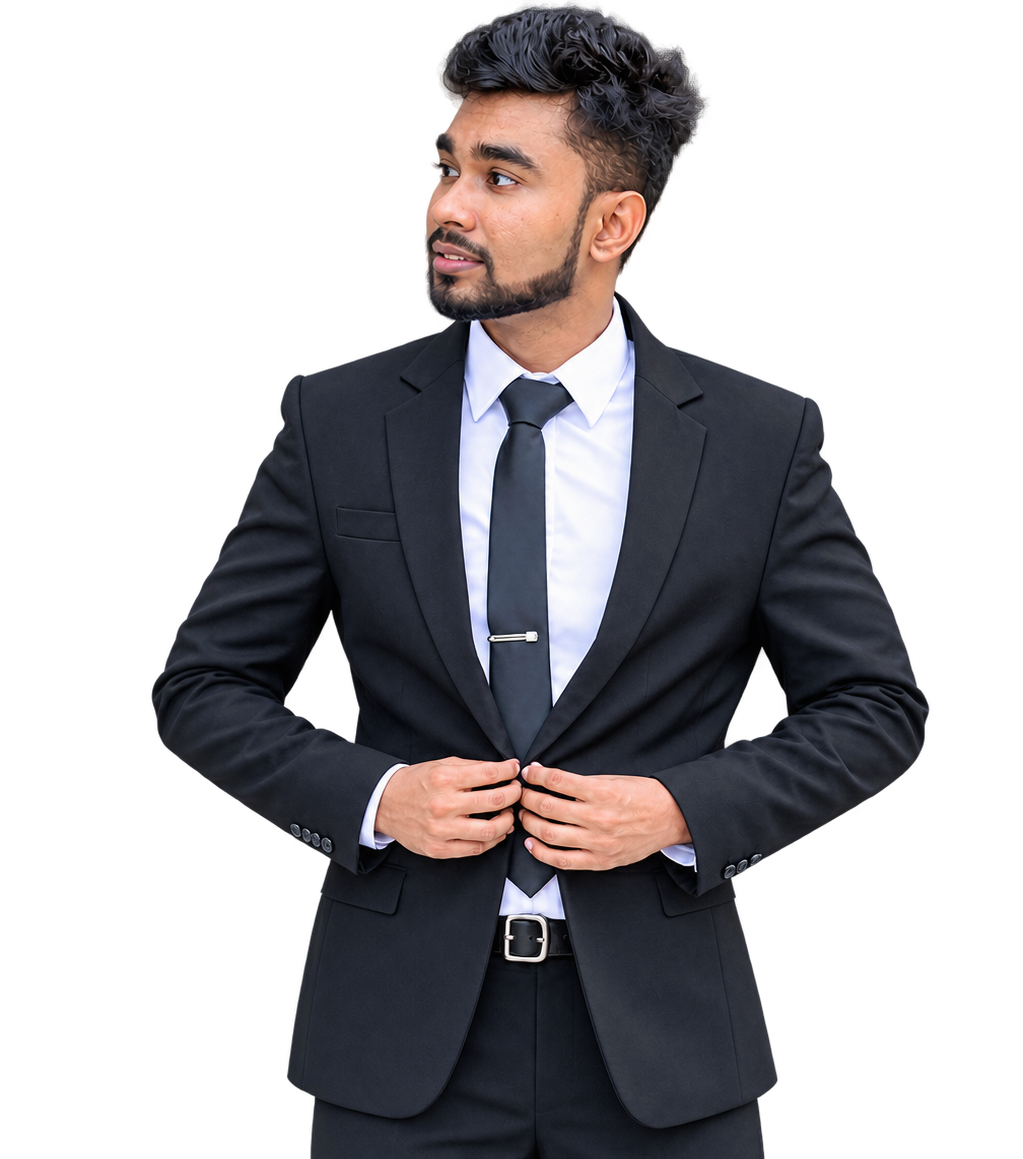
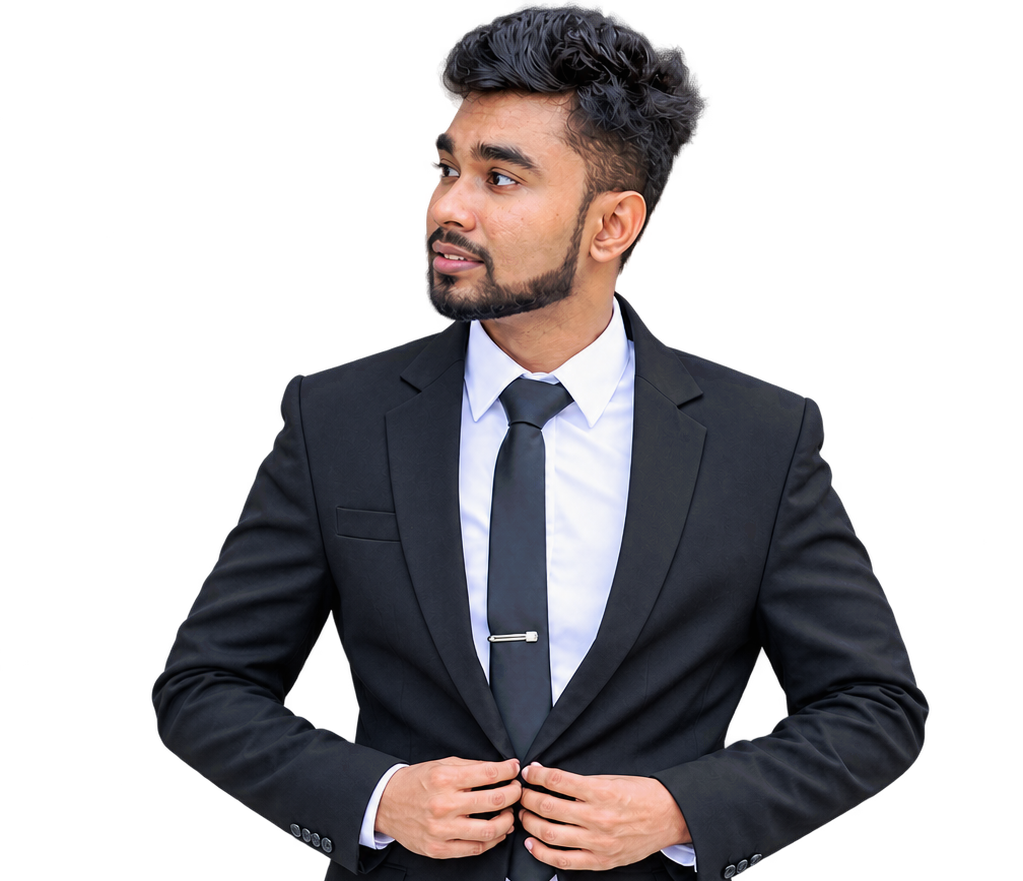
update hero section

diff --git a/client/src/index.css b/client/src/index.css
@@ -22,34 +22,31 @@ nav .wrap{display:flex;align-items:center;justify-content:space-between;height:6
 @media(max-width:700px){.links{display:none}}
 .tog{width:44px;height:44px;border-radius:50%;border:1px solid var(--line);background:var(--card);color:var(--fg);cursor:pointer;font-size:18px;transition:transform .5s}
 .tog:hover{transform:rotate(180deg);border-color:var(--brand)}
-/* hero */
-.hero{min-height:88vh;display:grid;align-items:center;position:relative;overflow:hidden;padding:60px 0}
-.hero .wrap{display:grid;grid-template-columns:1.15fr .85fr;gap:40px;align-items:center}
-@media(max-width:860px){.hero .wrap{grid-template-columns:1fr}}
-.pill{display:inline-flex;gap:8px;align-items:center;border:1px solid var(--line);background:var(--card);padding:6px 14px;border-radius:99px;font-size:13px;color:var(--muted);margin-bottom:26px}
-.pill b{width:8px;height:8px;border-radius:50%;background:#22c55e;animation:pulse 1.6s infinite}
-@keyframes pulse{50%{box-shadow:0 0 0 7px rgba(34,197,94,0);}0%{box-shadow:0 0 0 0 rgba(34,197,94,.6)}}
-h1{font-size:clamp(46px,8vw,104px)}
-.line{display:block;overflow:hidden}.line span{display:block;transform:translateY(110%);animation:up .9s cubic-bezier(.2,.8,.2,1) forwards}
-.line:nth-child(2) span{animation-delay:.12s}.line:nth-child(3) span{animation-delay:.24s}
-@keyframes up{to{transform:none}}
-.grad{background:linear-gradient(110deg,var(--brand) 0%,var(--grad-deep) 48%,var(--brand) 100%);background-size:200% 100%;-webkit-background-clip:text;background-clip:text;color:transparent;animation:shine 5s ease-in-out infinite}
-@keyframes shine{to{background-position:200%}}
-.swap{display:inline-block;height:1.05em;overflow:hidden;vertical-align:bottom}
-.swap div{animation:swap 9s infinite}
-.swap em{display:block;height:1.05em;font-style:normal}
-@keyframes swap{0%,28%{transform:translateY(0)}33%,61%{transform:translateY(-100%)}66%,94%{transform:translateY(-200%)}100%{transform:translateY(-300%)}}
-.sub{max-width:520px;color:var(--muted);margin:26px 0 34px;font-size:18px}
-.btns{display:flex;gap:14px;flex-wrap:wrap}
-.btn{display:inline-block;padding:15px 28px;border-radius:99px;font-weight:500;border:1px solid var(--line);transition:transform .2s,box-shadow .3s}
-.btn.p{background:var(--brand);color:#fff;border-color:var(--brand);box-shadow:0 10px 40px var(--glow)}
-.btn:hover{box-shadow:0 14px 50px var(--glow)}
-.orb{position:relative;min-height:650px;margin:auto;width:100%;display:flex;align-items:end;justify-content:center;isolation:isolate}
-.orb::before{display:none}
-.orb::after{content:"";position:absolute;width:56px;height:56px;right:5%;top:14%;border-radius:50%;background:var(--brand);box-shadow:0 0 0 12px color-mix(in srgb,var(--brand) 12%,transparent),0 0 55px var(--brand);z-index:-1}
-.chip{position:absolute;background:color-mix(in srgb,var(--bg) 72%,transparent);border:1px solid color-mix(in srgb,var(--brand) 30%,var(--line));padding:9px 14px;border-radius:999px;font-size:12px;box-shadow:0 12px 30px rgba(0,0,0,.12);animation:float 6s ease-in-out infinite;backdrop-filter:blur(14px);white-space:nowrap}
-.chip:nth-of-type(1){top:12%;left:-1%}.chip:nth-of-type(2){bottom:16%;right:-2%;animation-delay:-2s}.chip:nth-of-type(3){top:48%;left:-7%;animation-delay:-4s}
-@keyframes float{50%{transform:translateY(-14px)}}
+/* Layered hero: the word, portrait, and copy share one positioning context. */
+.hero{min-height:calc(100vh - 68px);position:relative;overflow:hidden;padding:28px 0 18px;isolation:isolate}
+.hero::before{content:"";position:absolute;z-index:-1;top:3%;left:50%;width:min(92vw,1180px);height:57%;transform:translateX(-50%);background:radial-gradient(ellipse at 50% 42%,rgba(2,135,254,.2) 0%,rgba(2,135,254,.08) 34%,transparent 70%),repeating-linear-gradient(90deg,transparent 0 74px,rgba(2,135,254,.045) 75px,transparent 76px);mask-image:linear-gradient(180deg,#000 0%,rgba(0,0,0,.7) 68%,transparent 100%);-webkit-mask-image:linear-gradient(180deg,#000 0%,rgba(0,0,0,.7) 68%,transparent 100%);filter:blur(.2px);animation:hero-light-drift 12s ease-in-out infinite alternate;pointer-events:none}
+.hero::after{content:"";position:absolute;inset:auto 0 0;height:22%;background:linear-gradient(transparent,var(--bg));z-index:1;pointer-events:none}
+.hero-stage{position:relative;min-height:calc(100vh - 114px);display:flex;flex-direction:column;justify-content:flex-end}
+.hero-word{position:absolute;z-index:0;top:6%;left:50%;margin-left:-50vw;display:flex;width:100vw;justify-content:center;white-space:nowrap;font:700 clamp(80px,15.2vw,220px)/.8 "Space Grotesk",sans-serif;letter-spacing:-.08em;background:linear-gradient(180deg,#7cc4ff 0%,var(--brand) 38%,#0154a5 78%,transparent 100%);-webkit-background-clip:text;background-clip:text;color:transparent;opacity:.52;mask-image:linear-gradient(180deg,#000 22%,rgba(0,0,0,.8) 68%,transparent 100%);-webkit-mask-image:linear-gradient(180deg,#000 22%,rgba(0,0,0,.7) 68%,transparent 100%);filter:drop-shadow(0 10px 24px var(--glow));animation:hero-shimmer 7s ease-in-out infinite alternate;pointer-events:none}
+.hero-word span{display:inline-block}@keyframes hero-shimmer{to{filter:saturate(1.35) brightness(1.12)}}
+.hero-photo-layer{position:absolute;z-index:1;left:0;right:0;margin-inline:auto;bottom:3%;width:min(52vw,700px);height:89%;display:flex;align-items:flex-end;justify-content:center;pointer-events:none;isolation:isolate}
+.hero-photo-layer::before{content:"";position:absolute;z-index:-1;inset:10% 12% 2%;border-radius:50%;background:radial-gradient(ellipse at center,rgba(2,135,254,.3) 0%,rgba(2,135,254,.12) 42%,transparent 74%);filter:blur(30px)}
+.hero-photo-layer::after{content:"";position:absolute;z-index:0;bottom:-1%;width:68%;height:28%;border-radius:50%;background:radial-gradient(ellipse,rgba(2,135,254,.28),transparent 70%);filter:blur(22px)}
+.hero-photo-layer img{position:relative;z-index:1;width:auto;height:100%;max-width:100%;object-fit:contain;filter:drop-shadow(0 20px 34px rgba(0,0,0,.18));animation:hero-photo-in .9s .42s both cubic-bezier(.2,.8,.2,1)}
+.hero-photo-glow{position:absolute;bottom:2%;width:48%;height:62%;border-radius:50%;background:var(--brand);opacity:.2;filter:blur(70px);animation:hero-glow-in 1.2s .35s both}
+@keyframes hero-photo-in{from{opacity:0;transform:scale(.95)}to{opacity:1;transform:none}}@keyframes hero-glow-in{from{opacity:0;transform:scale(.7)}to{opacity:.2;transform:scale(1)}}
+@keyframes hero-light-drift{0%{opacity:.55;background-position:0 0,0 0;transform:translateX(-50%) scale(1)}50%{opacity:.9;background-position:0 0,34px 0;transform:translateX(-50%) scale(1.035)}100%{opacity:.62;background-position:0 0,-24px 0;transform:translateX(-50%) scale(1)}}
+.hero-grid{position:relative;z-index:2;display:grid;grid-template-columns:minmax(240px,1fr) minmax(210px,1fr) minmax(200px,1fr);min-height:calc(100vh - 180px);align-items:end;padding-bottom:72px}
+.hero-copy{grid-column:1;position:relative;z-index:4;max-width:430px;padding-bottom:8vh}.hero-kicker{display:block;color:var(--muted);font:500 14px "Space Grotesk",sans-serif;letter-spacing:.14em;text-transform:uppercase;margin-bottom:12px}
+.hero-copy h1{font-size:clamp(42px,4.7vw,72px);line-height:.98;letter-spacing:-.06em;max-width:440px}.hero-role{color:var(--brand);font:600 clamp(18px,2vw,25px)/1.2 "Space Grotesk",sans-serif;margin-top:18px}.hero-description{max-width:340px;color:var(--muted);font-size:15px;margin:18px 0 26px}
+.hero-copy .btns{position:relative;z-index:5;display:flex;gap:12px;margin:30px 0 22px}.hero-copy .btn{display:inline-flex;align-items:center;justify-content:center;min-height:48px;padding:12px 21px;border-radius:14px;font-size:14px;background:var(--bg);border-color:var(--fg);box-shadow:0 10px 24px rgba(0,0,0,.16)}.hero-copy .btn.p{background:linear-gradient(135deg,#0287fe 0%,#43adff 52%,#0154a5 100%);border-color:#0287fe;color:#fff;box-shadow:0 12px 32px var(--glow)}.hero-copy .btn:hover{border-color:var(--brand);transform:translateY(-2px)}.hero-status,.hero-bottom{display:flex;align-items:center;gap:8px;color:var(--muted);font-size:12px}.hero-status b,.hero-bottom b{width:7px;height:7px;border-radius:50%;background:#22c55e;animation:pulse 1.6s infinite}
+.hero-aside{grid-column:3;justify-self:end;width:100%;max-width:200px;padding-bottom:6vh}.hero-stats{display:grid;gap:12px;border-left:1px solid var(--brand);padding-left:16px;margin-bottom:28px}.hero-stats span{font:500 13px/1.35 "Space Grotesk",sans-serif;color:var(--muted)}.hero-stats span:first-child{color:var(--fg)}
+.hero-socials{display:flex;flex-wrap:wrap;gap:8px 14px;border-top:1px solid var(--line);padding-top:15px}.hero-socials a{font-size:12px}.hero-socials a:hover{color:var(--brand)}.hero-socials span{color:var(--brand)}
+.hero-bottom{position:absolute;z-index:3;right:24px;bottom:2px;text-transform:uppercase;letter-spacing:.12em}.hero-bottom a{color:var(--muted)}.hero-bottom i{font-style:normal;color:var(--brand);font-size:17px;margin-left:5px}
+@keyframes pulse{50%{box-shadow:0 0 0 7px rgba(34,197,94,0)}0%{box-shadow:0 0 0 0 rgba(34,197,94,.6)}}
+@media(max-width:900px){.hero-grid{grid-template-columns:minmax(200px,1fr) minmax(170px,1fr) minmax(160px,1fr)}.hero-aside{max-width:185px}}
+@media(max-width:700px){.hero{min-height:auto;padding-top:12px}.hero-stage{min-height:0;padding:0 24px}.hero-word{top:9%;left:50%;margin-left:-50vw;font-size:clamp(66px,18vw,130px);letter-spacing:-.09em;opacity:.3}.hero-photo-layer{position:relative;left:auto;right:auto;margin-inline:0;bottom:auto;width:100%;height:54vh;min-height:350px;max-height:520px;order:0}.hero-photo-layer img{height:100%}.hero-grid{min-height:0;display:flex;flex-direction:column;align-items:center;padding:0 0 62px;text-align:center}.hero-copy{max-width:500px;padding:18px 0 0}.hero-copy h1{font-size:clamp(40px,11vw,58px)}.hero-description{margin-inline:auto}.hero-copy .btns{justify-content:center;flex-wrap:nowrap}.hero-copy .btn{min-width:132px}.hero-status{justify-content:center}.hero-aside{width:100%;max-width:340px;padding:34px 0 0}.hero-stats{border-left:0;border-top:1px solid var(--brand);padding:15px 0 0;grid-template-columns:repeat(2,1fr);gap:8px}.hero-socials{justify-content:center;gap:12px}.hero-bottom{left:0;right:0;bottom:0;padding:0 0 2px}.hero::after{height:12%}}
+@media(prefers-reduced-motion:reduce){.hero::before,.hero-word,.hero-photo-glow,.hero-photo-layer img{animation:none}.hero-chip{animation:none}}
 /* marquee */
 .mq{border-block:1px solid var(--line);overflow:hidden;padding:22px 0;background:var(--card)}
 .mq div{display:flex;gap:56px;width:max-content;animation:mq 28s linear infinite}

diff --git a/client/src/App.jsx b/client/src/App.jsx
@@ -1,5 +1,5 @@
 import { useEffect, useRef, useState } from 'react';
-import { AnimatePresence, motion, useMotionValue, useScroll, useSpring } from 'framer-motion';
+import { AnimatePresence, motion, useMotionValue, useReducedMotion, useScroll, useSpring, useTransform } from 'framer-motion';
 import { useTheme } from './hooks/useTheme';
 import Reveal from './components/Reveal';
 import CountUp from './components/CountUp';
@@ -8,33 +8,71 @@ import ContactForm from './components/ContactForm';
 import { activities, marquee, skills, stats, timeline } from './data';
 
 function Hero() {
+  // Hero copy and media are kept together so this section is easy to personalize.
+  const content = {
+    name: 'Daham, Kaushika',
+    role: 'Software Engineer',
+    description: 'Software Engineer crafting clear, reliable, and high-impact digital experiences.',
+    photo: '/daham.png',
+    cv: '/daham_kaushika.pdf',
+  };
+  const reduceMotion = useReducedMotion();
   const mx = useSpring(useMotionValue(0), { stiffness: 120, damping: 18 });
   const my = useSpring(useMotionValue(0), { stiffness: 120, damping: 18 });
+  const titleX = useTransform(mx, (value) => value * -0.35);
+  const titleY = useTransform(my, (value) => value * -0.2);
+  const photoX = useTransform(mx, (value) => value * 0.18);
+  const photoY = useTransform(my, (value) => value * 0.12);
+  const buttonX = useSpring(useMotionValue(0), { stiffness: 260, damping: 16 });
+  const buttonY = useSpring(useMotionValue(0), { stiffness: 260, damping: 16 });
   const move = (e) => {
+    if (reduceMotion) return;
     const r = e.currentTarget.getBoundingClientRect();
-    mx.set(((e.clientX - r.left) / r.width - 0.5) * 18);
-    my.set(((e.clientY - r.top) / r.height - 0.5) * 18);
+    mx.set(((e.clientX - r.left) / r.width - 0.5) * 22);
+    my.set(((e.clientY - r.top) / r.height - 0.5) * 22);
   };
   const reset = () => { mx.set(0); my.set(0); };
+  const moveButton = (e) => {
+    if (reduceMotion) return;
+    const r = e.currentTarget.getBoundingClientRect();
+    buttonX.set((e.clientX - r.left - r.width / 2) * 0.18);
+    buttonY.set((e.clientY - r.top - r.height / 2) * 0.18);
+  };
+  const resetButton = () => { buttonX.set(0); buttonY.set(0); };
 
   return (
-    <header className="hero" id="top">
-      <div className="wrap">
-        <div>
-          <div className="pill"><b />Open to work &amp; collaborations</div>
-          <h1>
-            <span className="line"><span>I’m Daham,</span></span>
-            <span className="line"><span className="grad">Software Engineer.</span></span>
-          </h1>
-          <p className="sub">Software Engineering graduate (BSc Hons, SLIIT) and Director at Algowrite. </p>
-          <div className="btns"><a className="btn p" href="#contact">Let’s talk</a><a className="btn" href="/daham_kaushika.pdf" download="Daham-Kaushika-CV.pdf">Download CV</a></div>
-        </div>
-        <div className="orb" onPointerMove={move} onPointerLeave={reset}>
-          <motion.div className="pw" style={{ x: mx, y: my }}>
-            <img src="/daham.png" alt="P A Daham Kaushika Lakshman" width="250" height="300" fetchpriority="high" />
+    <header className="hero" id="top" onPointerMove={move} onPointerLeave={reset}>
+      <motion.div className="hero-word" aria-hidden="true" style={reduceMotion ? undefined : { x: titleX, y: titleY }}>
+        {'PORTFOLIO'.split('').map((letter, index) => (
+          <motion.span key={`${letter}-${index}`} initial={reduceMotion ? false : { y: '110%', opacity: 0 }} animate={{ y: 0, opacity: 1 }} transition={{ delay: index * 0.055, duration: 0.7, ease: [0.2, 0.8, 0.2, 1] }}>{letter}</motion.span>
+        ))}
+      </motion.div>
+      <div className="hero-stage wrap">
+        <motion.div className="hero-photo-layer" style={reduceMotion ? undefined : { x: photoX, y: photoY }}>
+          <div className="hero-photo-glow" />
+          <img src={content.photo} alt="P A Daham Kaushika Lakshman" width="700" height="900" fetchpriority="high" />
+        </motion.div>
+        <div className="hero-grid">
+          <motion.div className="hero-copy" initial={reduceMotion ? false : { opacity: 0, y: 24 }} animate={{ opacity: 1, y: 0 }} transition={{ delay: 0.75, duration: 0.7 }}>
+            <span className="hero-kicker">Hello, I&apos;m</span>
+            <h1>{content.name}</h1>
+            <p className="hero-role">{content.role}</p>
+            <p className="hero-description">{content.description}</p>
+            <div className="btns">
+              <motion.a className="btn p hero-talk" href="#contact" onPointerMove={moveButton} onPointerLeave={resetButton} style={reduceMotion ? undefined : { x: buttonX, y: buttonY }}>Let&apos;s talk</motion.a>
+              <a className="btn" href={content.cv} download="Daham-Kaushika-CV.pdf">Download CV</a>
+            </div>
           </motion.div>
-          <div className="chip">⚛ React · Node · Mongo</div><div className="chip">🎓 SLIIT · 2026</div><div className="chip">🚀 Director, Algowrite</div>
+          <motion.aside className="hero-aside" initial={reduceMotion ? false : { opacity: 0, y: 24 }} animate={{ opacity: 1, y: 0 }} transition={{ delay: 0.9, duration: 0.7 }}>
+            <div className="hero-stats"><span>2026 / SLIIT graduate</span><span>Director / Algowrite</span></div>
+            <div className="hero-socials" aria-label="Social links">
+              <a href="https://github.com/DKLakshman" target="_blank" rel="noopener noreferrer">GitHub <span>↗</span></a>
+              <a href="https://www.linkedin.com/in/daham-kaushika-2563632b9/" target="_blank" rel="noopener noreferrer">LinkedIn <span>↗</span></a>
+              <a href="mailto:kaushikadaham2002@gmail.com">Email <span>↗</span></a>
+            </div>
+          </motion.aside>
         </div>
+        <div className="hero-bottom"><a href="#work">Scroll <i>↓</i></a></div>
       </div>
     </header>
   );
